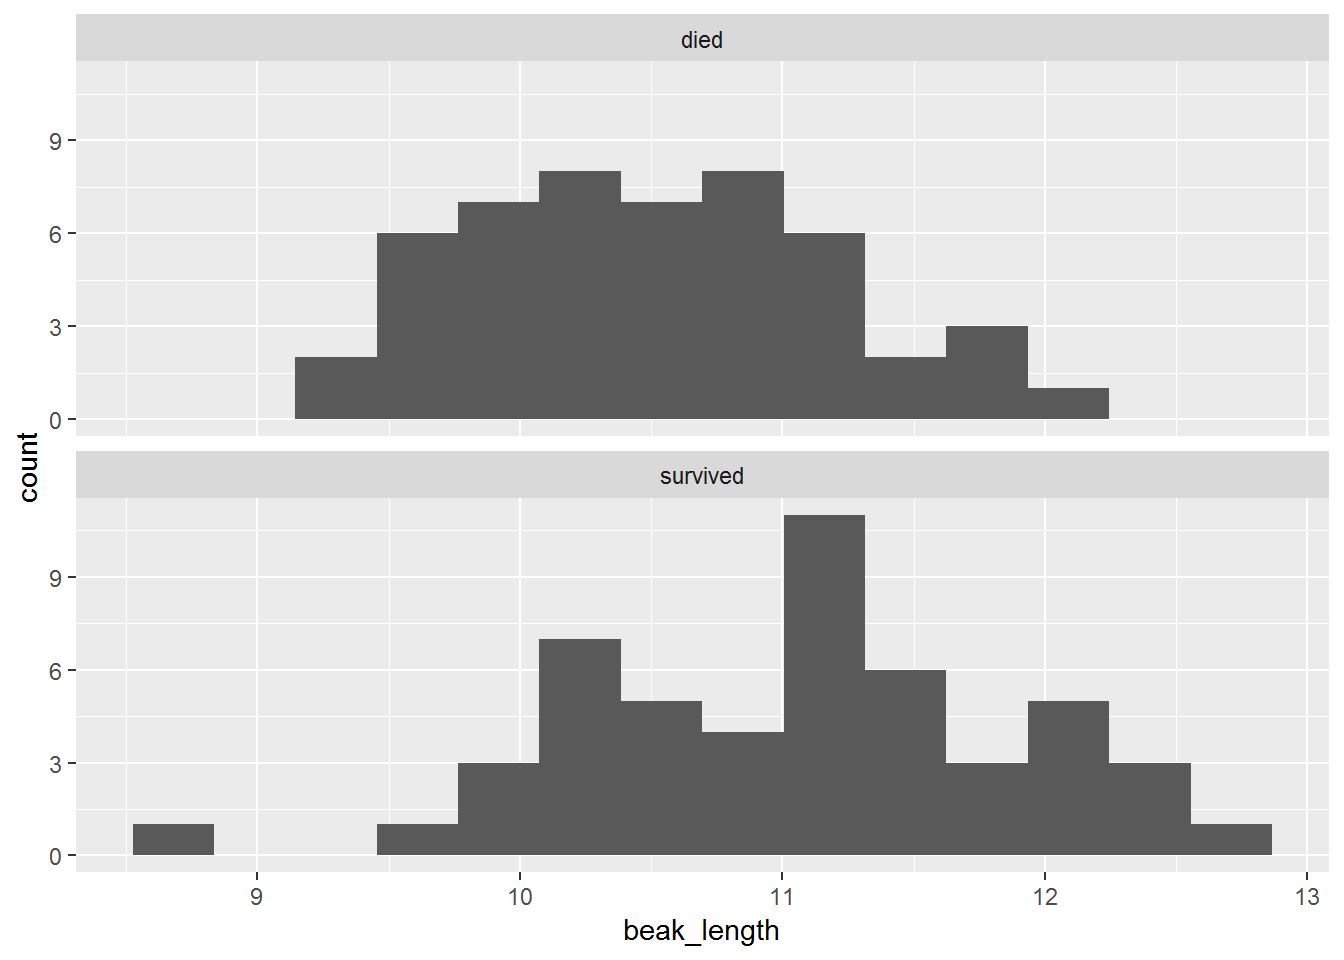
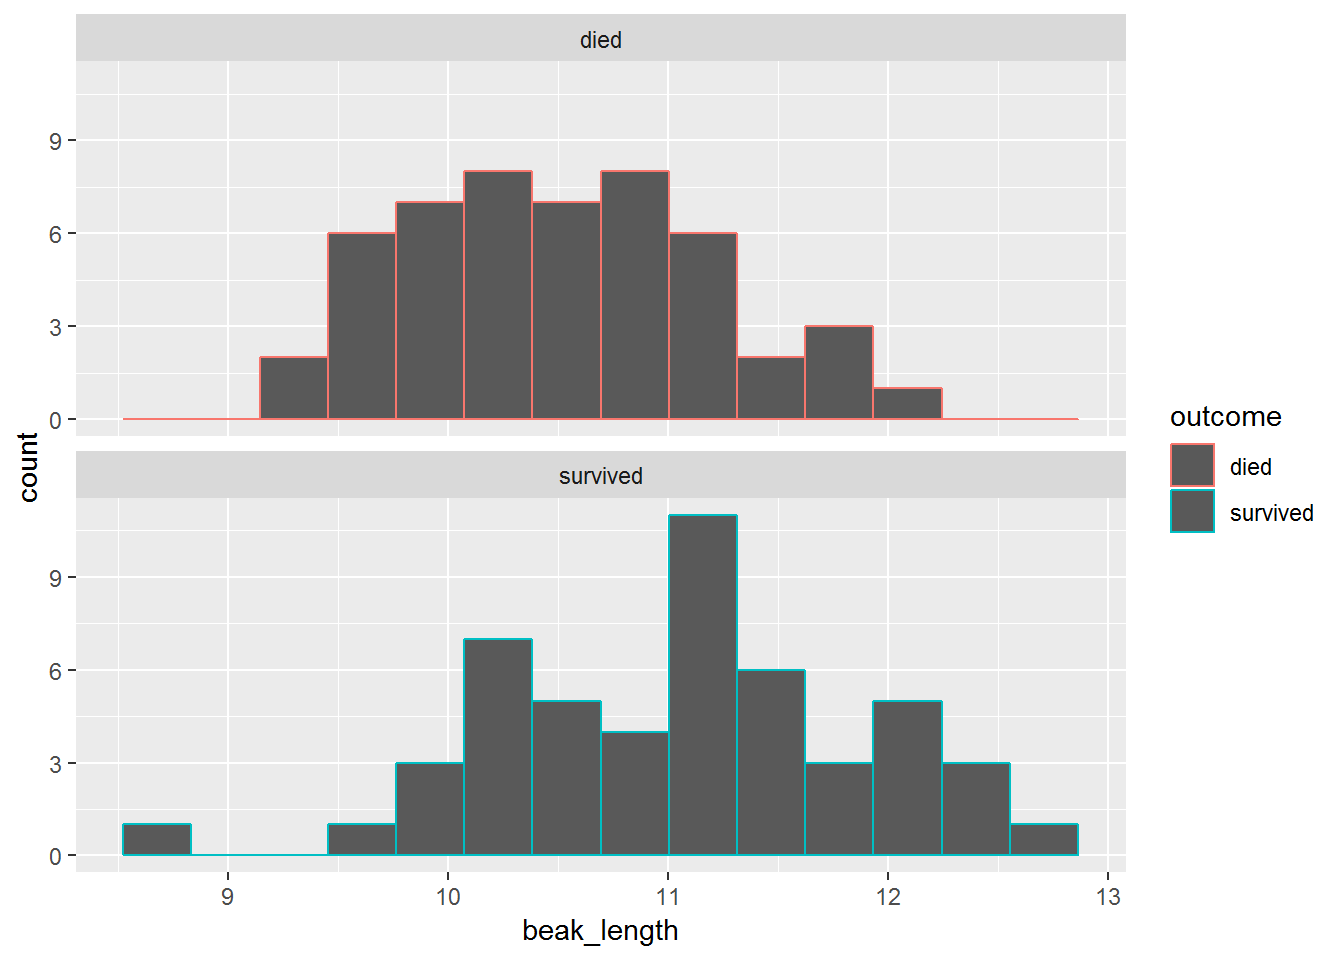
Colorize histograms

diff --git a/lab1_finch.html b/lab1_finch.html
@@ -336,20 +336,26 @@ $(document).ready(function () {
 <p><img src="lab1_finch_files/figure-html/unnamed-chunk-4-1.png" width="672" /> You can plot histograms of other columns by changing the <code>x =</code> part of the code.</p>
 <p>You can also experiment with different numbers of bins. The goal is to have enough that you can see a hump-shaped distribution, but not so many that you have too many bins with few or no observations. Try plotting a histogram with 50 bins, and another with 3 bins. Not very informational, are they?</p>
 <p>Sometimes we want to plot separate histograms for differet subsets of the data. One easy way to do this is with the <code>facet_wrap()</code> function in ggplot. Note that you have to add a <code>+</code> operator after the <code>geom_histogram()</code> line.</p>
-<div class="sourceCode" id="cb11"><pre class="sourceCode r"><code class="sourceCode r"><a class="sourceLine" id="cb11-1" data-line-number="1"><span class="kw">ggplot</span>(finches, <span class="kw">aes</span>(beak_length)) <span class="op">+</span></a>
-<a class="sourceLine" id="cb11-2" data-line-number="2"><span class="st">  </span><span class="kw">geom_histogram</span>(<span class="dt">bins =</span> <span class="dv">14</span>) <span class="op">+</span></a>
-<a class="sourceLine" id="cb11-3" data-line-number="3"><span class="st">  </span><span class="kw">facet_wrap</span>(<span class="op">~</span><span class="st"> </span>outcome, <span class="dt">ncol =</span> <span class="dv">1</span>)</a></code></pre></div>
+<div class="sourceCode" id="cb11"><pre class="sourceCode r"><code class="sourceCode r"><a class="sourceLine" id="cb11-1" data-line-number="1"><span class="kw">ggplot</span>(</a>
+<a class="sourceLine" id="cb11-2" data-line-number="2">  <span class="dt">data =</span> finches, </a>
+<a class="sourceLine" id="cb11-3" data-line-number="3">  <span class="dt">mapping =</span> <span class="kw">aes</span>(<span class="dt">x =</span> beak_length, <span class="dt">color =</span> outcome)</a>
+<a class="sourceLine" id="cb11-4" data-line-number="4">) <span class="op">+</span></a>
+<a class="sourceLine" id="cb11-5" data-line-number="5"><span class="st">  </span><span class="kw">geom_histogram</span>(<span class="dt">bins =</span> <span class="dv">14</span>) <span class="op">+</span></a>
+<a class="sourceLine" id="cb11-6" data-line-number="6"><span class="st">  </span><span class="kw">facet_wrap</span>(<span class="op">~</span><span class="st"> </span>outcome, <span class="dt">ncol =</span> <span class="dv">1</span>)</a></code></pre></div>
 <p><img src="lab1_finch_files/figure-html/unnamed-chunk-5-1.png" width="672" /></p>
 <p>The last thing you might want to do is spruce up your plot with a title and better axis labels. This is done with the <code>labs()</code> function:</p>
-<div class="sourceCode" id="cb12"><pre class="sourceCode r"><code class="sourceCode r"><a class="sourceLine" id="cb12-1" data-line-number="1"><span class="kw">ggplot</span>(finches, <span class="kw">aes</span>(beak_length)) <span class="op">+</span></a>
-<a class="sourceLine" id="cb12-2" data-line-number="2"><span class="st">  </span><span class="kw">geom_histogram</span>(<span class="dt">bins =</span> <span class="dv">14</span>) <span class="op">+</span></a>
-<a class="sourceLine" id="cb12-3" data-line-number="3"><span class="st">  </span><span class="kw">facet_wrap</span>(<span class="op">~</span><span class="st"> </span>outcome, <span class="dt">ncol =</span> <span class="dv">1</span>) <span class="op">+</span></a>
-<a class="sourceLine" id="cb12-4" data-line-number="4"><span class="st">  </span><span class="kw">labs</span>(</a>
-<a class="sourceLine" id="cb12-5" data-line-number="5">    <span class="dt">x =</span> <span class="st">&quot;Beak Length (mm)&quot;</span>,</a>
-<a class="sourceLine" id="cb12-6" data-line-number="6">    <span class="dt">y =</span> <span class="st">&quot;Number of Birds&quot;</span>,</a>
-<a class="sourceLine" id="cb12-7" data-line-number="7">    <span class="dt">title =</span> <span class="st">&quot;Beak Length and Survival&quot;</span>,</a>
-<a class="sourceLine" id="cb12-8" data-line-number="8">    <span class="dt">subtitle =</span> <span class="st">&quot;Among medium ground finch (Geospiza fortis) survival on Daphne Major&quot;</span>,</a>
-<a class="sourceLine" id="cb12-9" data-line-number="9">    <span class="dt">caption =</span> <span class="st">&quot;Data source: HHMI Lab Evolution in Action: Data Analysis&quot;</span>)</a></code></pre></div>
+<div class="sourceCode" id="cb12"><pre class="sourceCode r"><code class="sourceCode r"><a class="sourceLine" id="cb12-1" data-line-number="1"><span class="kw">ggplot</span>(</a>
+<a class="sourceLine" id="cb12-2" data-line-number="2">  <span class="dt">data =</span> finches, </a>
+<a class="sourceLine" id="cb12-3" data-line-number="3">  <span class="dt">mapping =</span> <span class="kw">aes</span>(<span class="dt">x =</span> beak_length, <span class="dt">fill =</span> outcome)</a>
+<a class="sourceLine" id="cb12-4" data-line-number="4">) <span class="op">+</span></a>
+<a class="sourceLine" id="cb12-5" data-line-number="5"><span class="st">  </span><span class="kw">geom_histogram</span>(<span class="dt">bins =</span> <span class="dv">14</span>) <span class="op">+</span></a>
+<a class="sourceLine" id="cb12-6" data-line-number="6"><span class="st">  </span><span class="kw">facet_wrap</span>(<span class="op">~</span><span class="st"> </span>outcome, <span class="dt">ncol =</span> <span class="dv">1</span>) <span class="op">+</span></a>
+<a class="sourceLine" id="cb12-7" data-line-number="7"><span class="st">  </span><span class="kw">labs</span>(</a>
+<a class="sourceLine" id="cb12-8" data-line-number="8">    <span class="dt">x =</span> <span class="st">&quot;Beak Length (mm)&quot;</span>,</a>
+<a class="sourceLine" id="cb12-9" data-line-number="9">    <span class="dt">y =</span> <span class="st">&quot;Number of Birds&quot;</span>,</a>
+<a class="sourceLine" id="cb12-10" data-line-number="10">    <span class="dt">title =</span> <span class="st">&quot;Beak Length and Survival&quot;</span>,</a>
+<a class="sourceLine" id="cb12-11" data-line-number="11">    <span class="dt">subtitle =</span> <span class="st">&quot;Among medium ground finch (Geospiza fortis) survival on Daphne Major&quot;</span>,</a>
+<a class="sourceLine" id="cb12-12" data-line-number="12">    <span class="dt">caption =</span> <span class="st">&quot;Data source: HHMI Lab Evolution in Action: Data Analysis&quot;</span>)</a></code></pre></div>
 <p><img src="lab1_finch_files/figure-html/unnamed-chunk-6-1.png" width="672" /></p>
 <div id="export-your-figure" class="section level4">
 <h4>Export your figure</h4>
